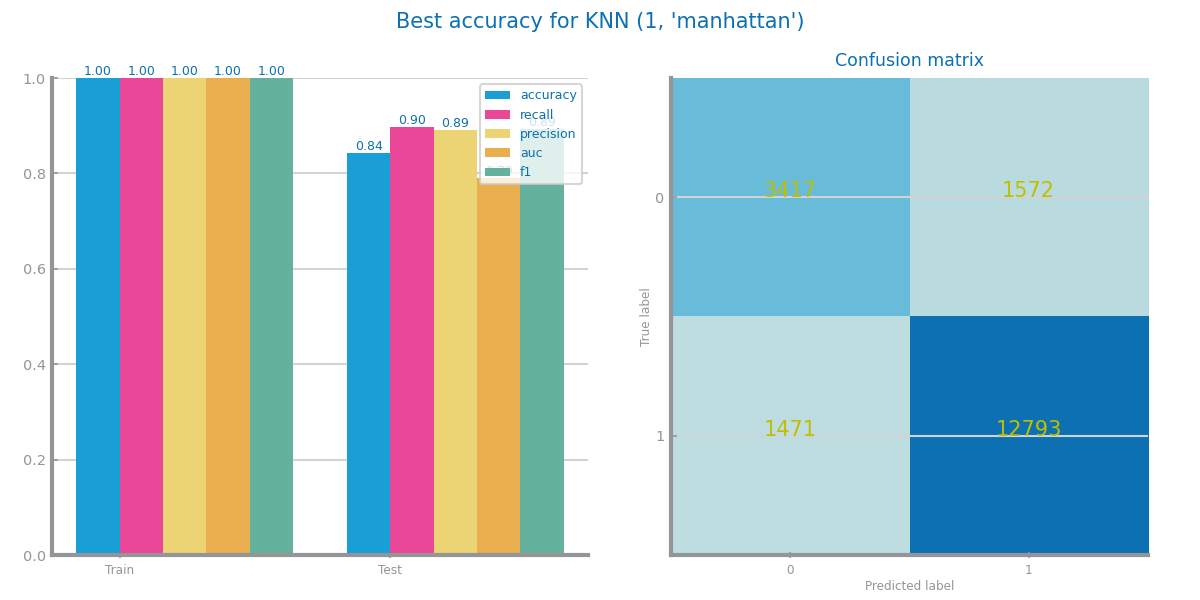
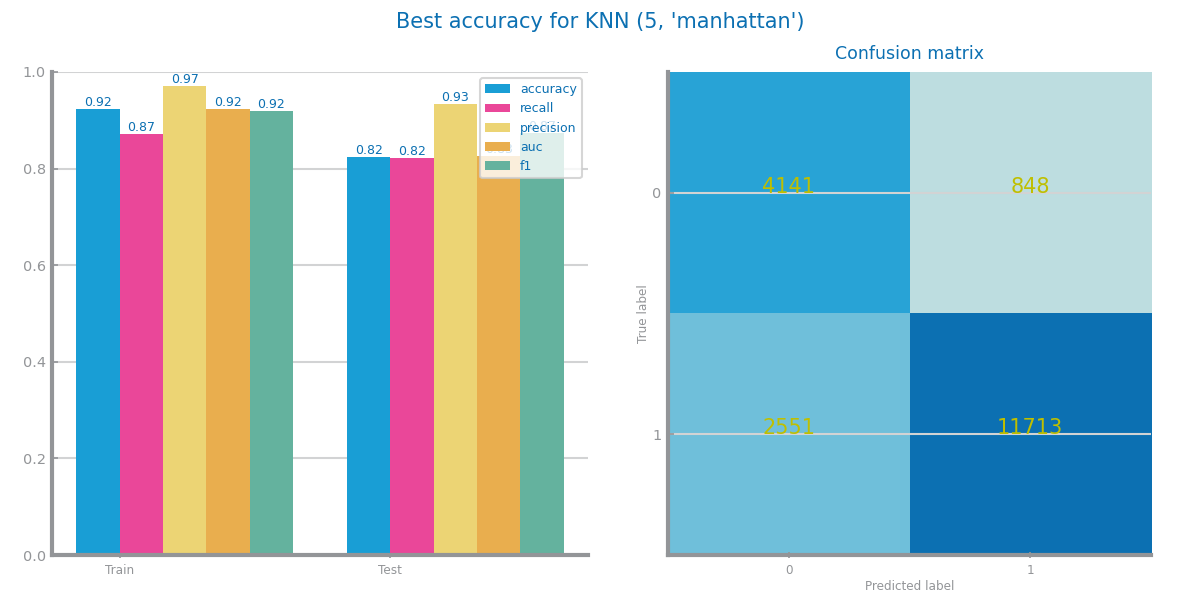
feat: KNN without sampling

diff --git a/utils/dslabs_functions.py b/utils/dslabs_functions.py
@@ -9,6 +9,7 @@ from numbers import Number
 from typing import Callable, Literal
 
 import matplotlib.pyplot as plt
+import statsmodels.api as sm
 from matplotlib.axes import Axes
 from matplotlib.container import BarContainer
 from matplotlib.dates import AutoDateLocator, AutoDateFormatter
@@ -36,7 +37,6 @@ from sklearn.neighbors import KNeighborsClassifier
 from sklearn.neural_network import MLPClassifier
 from sklearn.preprocessing import OneHotEncoder, StandardScaler
 from sklearn.tree import DecisionTreeClassifier
-import statsmodels.api as sm
 from statsmodels.tsa.stattools import adfuller
 
 # from forecasting.models.DS_LSTM import DS_LSTM, prepare_dataset_for_lstm
@@ -1204,53 +1204,7 @@ def naive_Bayes_study(trnX, trnY, tstX, tstY, metric='accuracy', file_tag='', su
     return best_model, best_params
 
 
-# receives a list of approaches to study; each approach contains train_filename, subtitle
-def data_prep_naive_bayes_study(approaches, metric='accuracy', study_title='', file_tag='', target='class',
-                                sampling_amount=0.01):
-    estimators = {
-        'GaussianNB': GaussianNB(),
-        'MultinomialNB': MultinomialNB(),
-        'BernoulliNB': BernoulliNB()
-    }
-
-    cols = len(approaches)
-    fig, axs = subplots(1, cols, figsize=(cols * HEIGHT, HEIGHT), squeeze=False)
-    fig.suptitle(f'Naive Bayes Models ({metric}) - {study_title}')
-
-    for i in range(cols):
-        trnX, tstX, trnY, tstY, labels = split_train_test_from_file(approaches[i][0], target=target,
-                                                                    sample_amount=sampling_amount)
-        xvalues = []
-        yvalues = []
-        best_model = None
-        best_params = {'name': '', 'metric': metric, 'params': ()}
-        best_performance = 0
-        for clf in estimators:
-            xvalues.append(clf)
-            estimators[clf].fit(trnX, trnY)
-            prdY = estimators[clf].predict(tstX)
-            eval = CLASS_EVAL_METRICS[metric](tstY, prdY)
-            if eval - best_performance > DELTA_IMPROVE:
-                best_performance = eval
-                best_params['name'] = clf
-                best_model = estimators[clf]
-            yvalues.append(eval)
-
-        plot_bar_chart(
-            xvalues,
-            yvalues,
-            ax=axs[0][i],
-            title=approaches[i][1],
-            ylabel=metric,
-            percentage=True
-        )
-
-    plt.tight_layout()
-    savefig(f'images/{file_tag}_nb_{metric}_study.png')
-    plt.show()
-
-
-def knn_study(trnX, trnY, tstX, tstY, k_max=19, lag=2, metric='accuracy', file_tag='', ax=None):
+def knn_study(trnX, trnY, tstX, tstY, k_max=19, lag=2, metric='accuracy', ax=None):
     dist = ['manhattan', 'euclidean', 'chebyshev']
 
     kvalues = [i for i in range(1, k_max + 1, lag)]
@@ -1281,44 +1235,45 @@ def knn_study(trnX, trnY, tstX, tstY, k_max=19, lag=2, metric='accuracy', file_t
     return best_model, best_params
 
 
-def data_prep_knn_study(approaches, k_max=19, lag=2, metric='accuracy', study_title='', file_tag='', target='class',
-                        sampling_amount=1):
+def knn_study2(trnX, trnY, tstX, tstY, k_max=19, lag=2, file_tag=''):
     dist = ['manhattan', 'euclidean', 'chebyshev']
 
-    cols = len(approaches)
-    fig, axs = subplots(1, cols, figsize=(cols * HEIGHT, HEIGHT), squeeze=False)
-    fig.suptitle(f'KNN Models ({metric}) - {study_title}')
+    kvalues = [i for i in range(1, k_max + 1, lag)]
+    best_model = None
+    best_params = {'name': 'KNN', 'params': (), 'metric': 'accuracy'}
+    best_performance = 0
 
-    for i in range(cols):
-        trnX, tstX, trnY, tstY, labels = split_train_test_from_file(approaches[i][0], target=target,
-                                                                    sample_amount=sampling_amount)
-        kvalues = [i for i in range(1, k_max + 1, lag)]
-        best_model = None
-        best_params = {'name': 'KNN', 'metric': metric, 'params': ()}
-        best_performance = 0
+    plt.figure()
+    eval_metrics = list(CLASS_EVAL_METRICS.keys())
+    cols = len(eval_metrics)
+    fig, axs = plt.subplots(1, cols, figsize=(cols * HEIGHT, HEIGHT), squeeze=False)
+    fig.suptitle(f"KNN Study ({file_tag})")
 
-        values = {}
-        for d in dist:
-            y_tst_values = []
-            for k in kvalues:
-                clf = KNeighborsClassifier(n_neighbors=k, metric=d)
-                clf.fit(trnX, trnY)
-                prdY = clf.predict(tstX)
+    values = {metric: {} for metric in eval_metrics}
+    # run only one KNN and study all metrics
+    for d in dist:
+        y_tst_values = {metric: [] for metric in eval_metrics}
+        for k in kvalues:
+            clf = KNeighborsClassifier(n_neighbors=k, metric=d)
+            clf.fit(trnX, trnY)
+            prdY = clf.predict(tstX)
+            for metric in eval_metrics:
                 eval = CLASS_EVAL_METRICS[metric](tstY, prdY)
-                y_tst_values.append(eval)
+                y_tst_values[metric].append(eval)
                 if eval - best_performance > DELTA_IMPROVE:
                     best_performance = eval
                     best_params['params'] = (k, d)
                     best_model = clf
-            values[d] = y_tst_values
-        print(f'KNN best with k={best_params['params'][0]} and {best_params['params'][1]}')
+        for metric in eval_metrics:
+            values[metric][d] = y_tst_values[metric]
 
-        plot_multiline_chart(kvalues, values, ax=axs[0][i], title=approaches[i][1], xlabel='k', ylabel=metric,
-                             percentage=True)
+    for i in range(cols):
+        metric = eval_metrics[i]
+        plot_multiline_chart(kvalues, values[metric], title=f'KNN Models ({metric})', xlabel='k', ylabel=metric,
+                             percentage=True,
+                             ax=axs[0][i])
 
-    plt.tight_layout()
-    savefig(f'images/{file_tag}_knn_{metric}_study.png')
-    plt.show()
+    return best_model, best_params
 
 
 def trees_study(

diff --git a/classification/models/pos_covid/knn.py b/classification/models/pos_covid/knn.py
@@ -3,21 +3,20 @@ from typing import Literal
 import matplotlib.pyplot as plt
 from sklearn.neighbors import KNeighborsClassifier
 
-from utils.dslabs_functions import read_train_test_from_files, CLASS_EVAL_METRICS, knn_study, HEIGHT, \
-    plot_evaluation_results, plot_multiline_chart
+from utils.dslabs_functions import read_train_test_from_files, CLASS_EVAL_METRICS, plot_evaluation_results, \
+    plot_multiline_chart, knn_study2
 
 train_filename = "../../data/pos_covid/processed_data/class_pos_covid_train_lowvar.csv"
 test_filename = "../../data/pos_covid/processed_data/class_pos_covid_test_lowvar.csv"
 pos_covid_file_tag: str = "class_pos_covid"
 target = "CovidPos"
 
-run_sampling = True # TODO: Run without sampling - WARNING: It takes a lot of time!!!!
+run_sampling = False
 sampling_amount = 0.01 if run_sampling else 1
 
 sample_tag = f"_1_{int(1 / sampling_amount)}th" if run_sampling else ""
 
 run_parameter_study = True
-run_performance_analysis = True
 run_overfitting_study = True
 
 trnX, tstX, trnY, tstY, labels, vars = read_train_test_from_files(train_filename, test_filename, target,
@@ -30,32 +29,20 @@ print(f'Labels={labels}')
 # ----------------------------
 
 if run_parameter_study:
-    plt.figure()
-    eval_metrics = list(CLASS_EVAL_METRICS.keys())
-    cols = len(eval_metrics)
-    fig, axs = plt.subplots(1, cols, figsize=(cols * HEIGHT, HEIGHT), squeeze=False)
-    fig.suptitle(f"KNN Study ({pos_covid_file_tag})")
-    for i in range(len(eval_metrics)):
-        best_model, params = knn_study(trnX, trnY, tstX, tstY, k_max=25, metric=eval_metrics[i], ax=axs[0][i])
+    best_model, params = knn_study2(trnX, trnY, tstX, tstY, k_max=25, file_tag=pos_covid_file_tag)
+    plt.tight_layout()
+    plt.savefig(f"images/{pos_covid_file_tag}_knn_study{sample_tag}.png")
+    plt.show()
+    print(f"Best model: {best_model}")
+    plt.clf()
 
-    fig.tight_layout()
-    fig.savefig(f"images/{pos_covid_file_tag}_knn_study{sample_tag}.png")
-    fig.show()
+    # Performance Analysis
 
-# Best alternative: Manhattan with k=9
-best_model, params = knn_study(trnX, trnY, tstX, tstY, k_max=25, metric="accuracy")
-print(f"Best model: {best_model}")
-plt.clf()
-
-# ----------------------------
-# Performance Analysis
-# ----------------------------
-
-if run_performance_analysis:
     prd_trn = best_model.predict(trnX)
     prd_tst = best_model.predict(tstX)
     plt.figure()
-    plot_evaluation_results(params, trnY, prd_trn, tstY, prd_tst, labels, file_tag=pos_covid_file_tag, sample_tag=sample_tag)
+    plot_evaluation_results(params, trnY, prd_trn, tstY, prd_tst, labels, file_tag=pos_covid_file_tag,
+                            sample_tag=sample_tag)
     plt.tight_layout()
     plt.show()
     plt.clf()

diff --git a/classification/models/credit_score/knn.py b/classification/models/credit_score/knn.py
@@ -3,8 +3,8 @@ from typing import Literal
 import matplotlib.pyplot as plt
 from sklearn.neighbors import KNeighborsClassifier
 
-from utils.dslabs_functions import read_train_test_from_files, CLASS_EVAL_METRICS, knn_study, HEIGHT, \
-    plot_evaluation_results, plot_multiline_chart
+from utils.dslabs_functions import read_train_test_from_files, CLASS_EVAL_METRICS, plot_evaluation_results, \
+    plot_multiline_chart, knn_study2
 
 train_filename = "../../data/credit_score/processed_data/class_credit_score_train_lowvar.csv"
 test_filename = "../../data/credit_score/processed_data/class_credit_score_test_lowvar.csv"
@@ -17,7 +17,6 @@ sampling_amount = 0.1 if run_sampling else 1
 sample_tag = f"_1_{int(1 / sampling_amount)}th" if run_sampling else ""
 
 run_parameter_study = True
-run_performance_analysis = True
 run_overfitting_study = True
 
 trnX, tstX, trnY, tstY, labels, vars = read_train_test_from_files(train_filename, test_filename, target,
@@ -30,32 +29,20 @@ print(f'Labels={labels}')
 # ----------------------------
 
 if run_parameter_study:
-    plt.figure()
-    eval_metrics = list(CLASS_EVAL_METRICS.keys())
-    cols = len(eval_metrics)
-    fig, axs = plt.subplots(1, cols, figsize=(cols * HEIGHT, HEIGHT), squeeze=False)
-    fig.suptitle(f"KNN Study ({credit_score_file_tag})")
-    for i in range(len(eval_metrics)):
-        best_model, params = knn_study(trnX, trnY, tstX, tstY, k_max=25, metric=eval_metrics[i], ax=axs[0][i])
+    best_model, params = knn_study2(trnX, trnY, tstX, tstY, k_max=25, file_tag=credit_score_file_tag)
+    plt.tight_layout()
+    plt.savefig(f"images/{credit_score_file_tag}_knn_study{sample_tag}.png")
+    plt.show()
+    print(f"Best model: {best_model}")
+    plt.clf()
 
-    fig.tight_layout()
-    fig.savefig(f"images/{credit_score_file_tag}_knn_study{sample_tag}.png")
-    fig.show()
+    # Performance Analysis
 
-# Best alternative: Manhattan with k=15
-best_model, params = knn_study(trnX, trnY, tstX, tstY, k_max=25, metric="accuracy")
-print(f"Best model: {best_model}")
-plt.clf()
-
-# ----------------------------
-# Performance Analysis
-# ----------------------------
-
-if run_performance_analysis:
     prd_trn = best_model.predict(trnX)
     prd_tst = best_model.predict(tstX)
     plt.figure()
-    plot_evaluation_results(params, trnY, prd_trn, tstY, prd_tst, labels, file_tag=credit_score_file_tag, sample_tag=sample_tag)
+    plot_evaluation_results(params, trnY, prd_trn, tstY, prd_tst, labels, file_tag=credit_score_file_tag,
+                            sample_tag=sample_tag)
     plt.tight_layout()
     plt.show()
     plt.clf()

diff --git a/TODO.md b/TODO.md
@@ -36,7 +36,7 @@
         * [X] Report
     * [X] Feature Selection
         * [X] Code and Charts
-        * [ ] Report
+        * [X] Report
     * [ ] Feature Extraction - _optional_
         * [ ] Code and Charts
         * [ ] Report
@@ -44,25 +44,25 @@
         * [ ] Code and Charts
         * [ ] Report
 
-* [ ] **Modeling and Evaluation**:
+* [X] **Modeling and Evaluation**:
     * [X] Naive Bayes
         * [X] Code and Charts
         * [X] Report
-    * [ ] KNN - run without sampling for covid
-        * [ ] Code and Charts
-        * [ ] Report
+    * [X] KNN - run without sampling for covid
+        * [X] Code and Charts
+        * [X] Report
     * [X] Decision Trees
         * [X] Code and Charts
         * [X] Report
     * [X] Random Forest
         * [X] Code and Charts
         * [X] Report
-    * [ ] Gradient Boosting - run without sampling
-        * [ ] Code and Charts
-        * [ ] Report
-    * [ ] MLP
+    * [X] Gradient Boosting
         * [X] Code and Charts
-        * [ ] Report
+        * [X] Report
+    * [X] MLP
+        * [X] Code and Charts
+        * [X] Report
 
 * [ ] **Critical Analysis**
 
